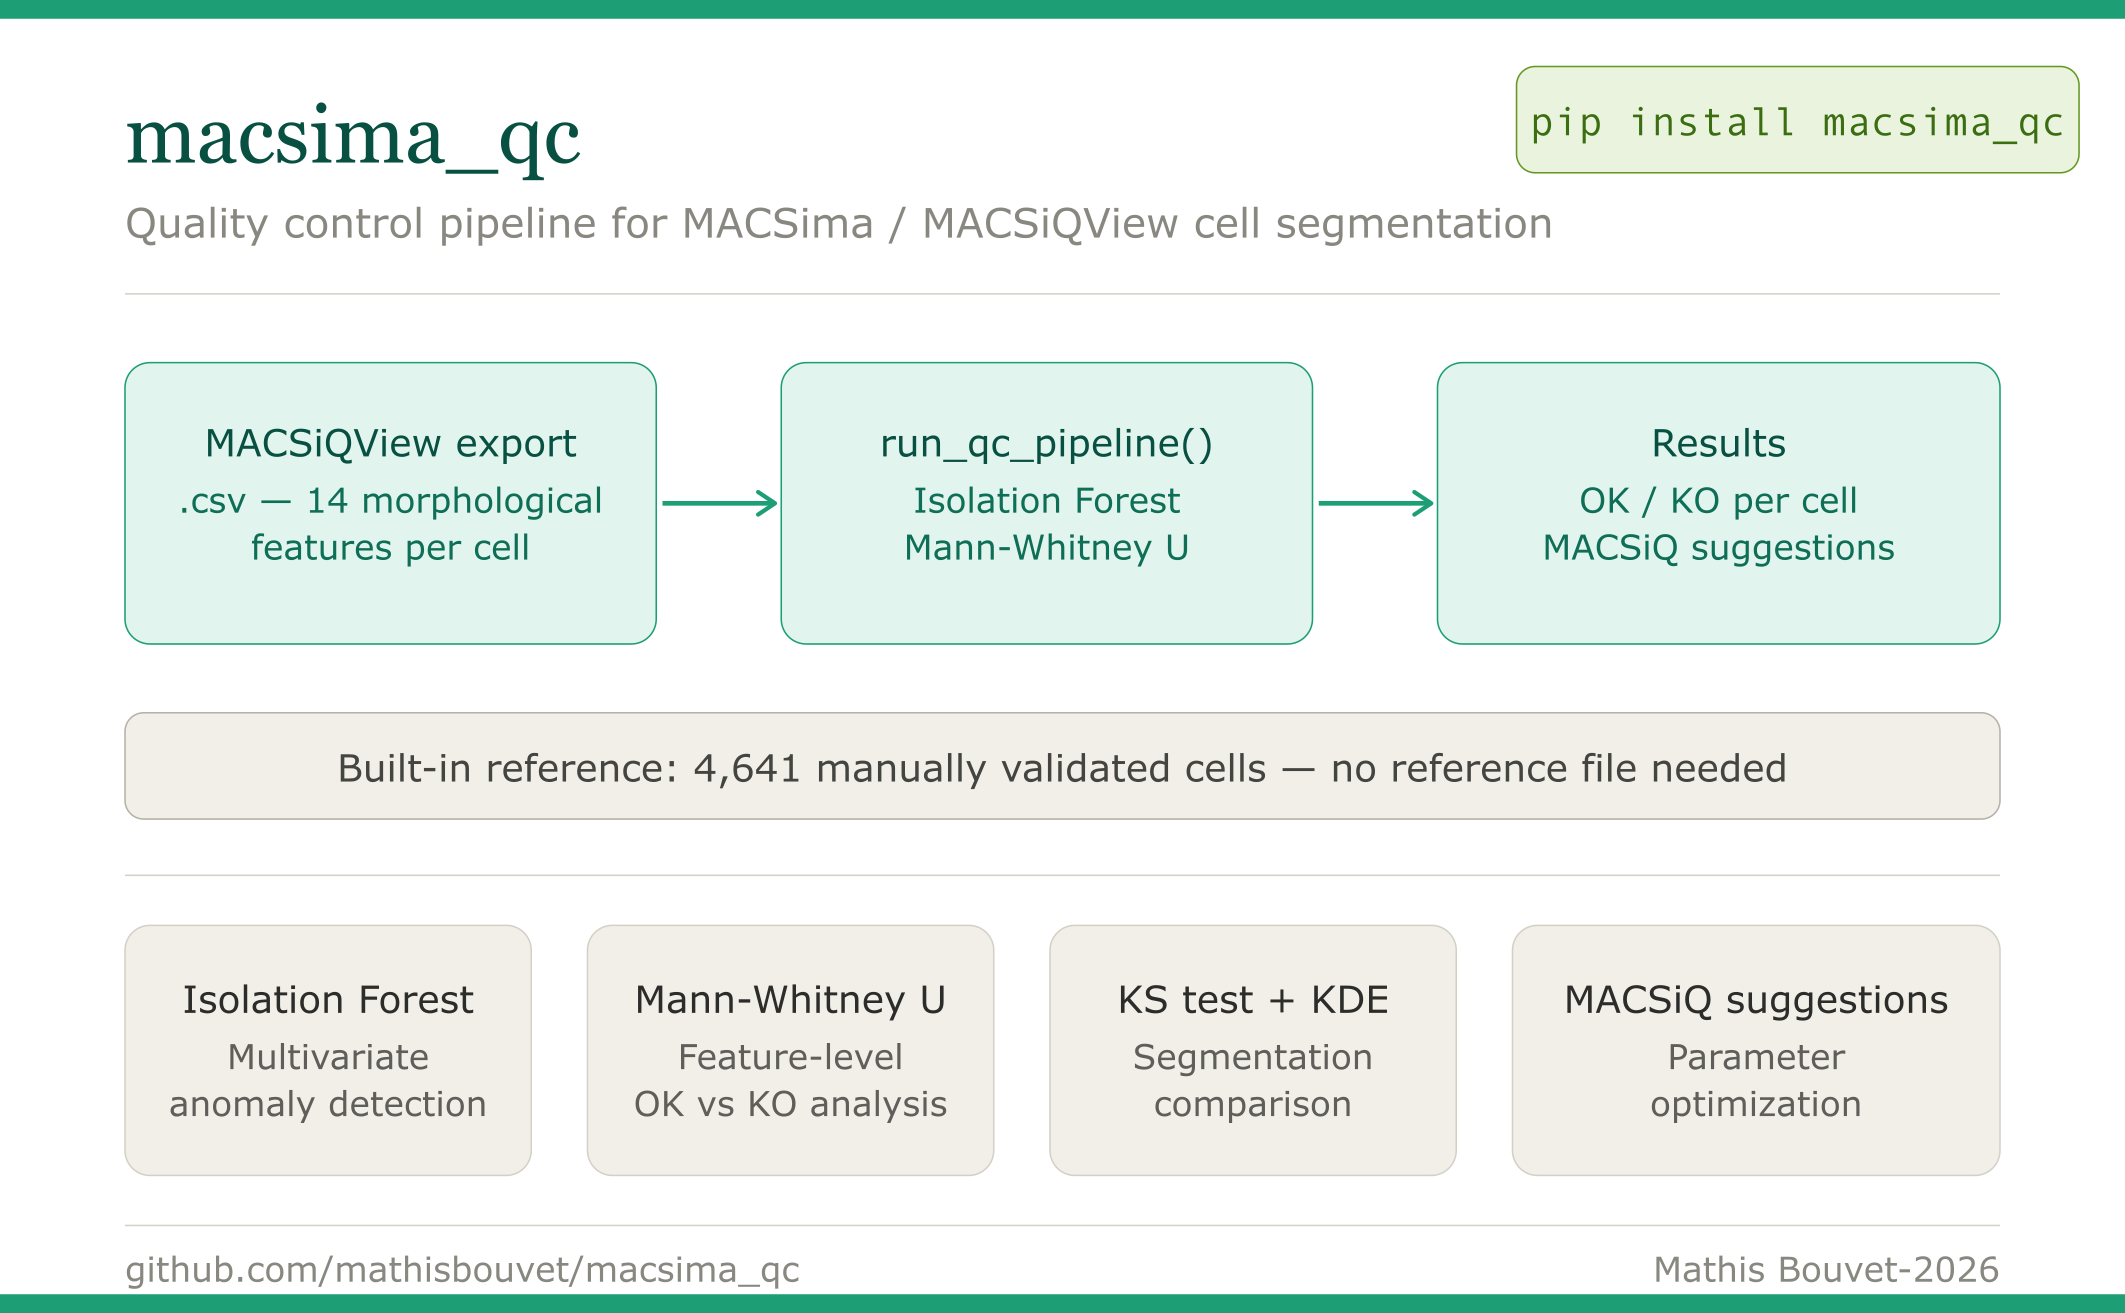
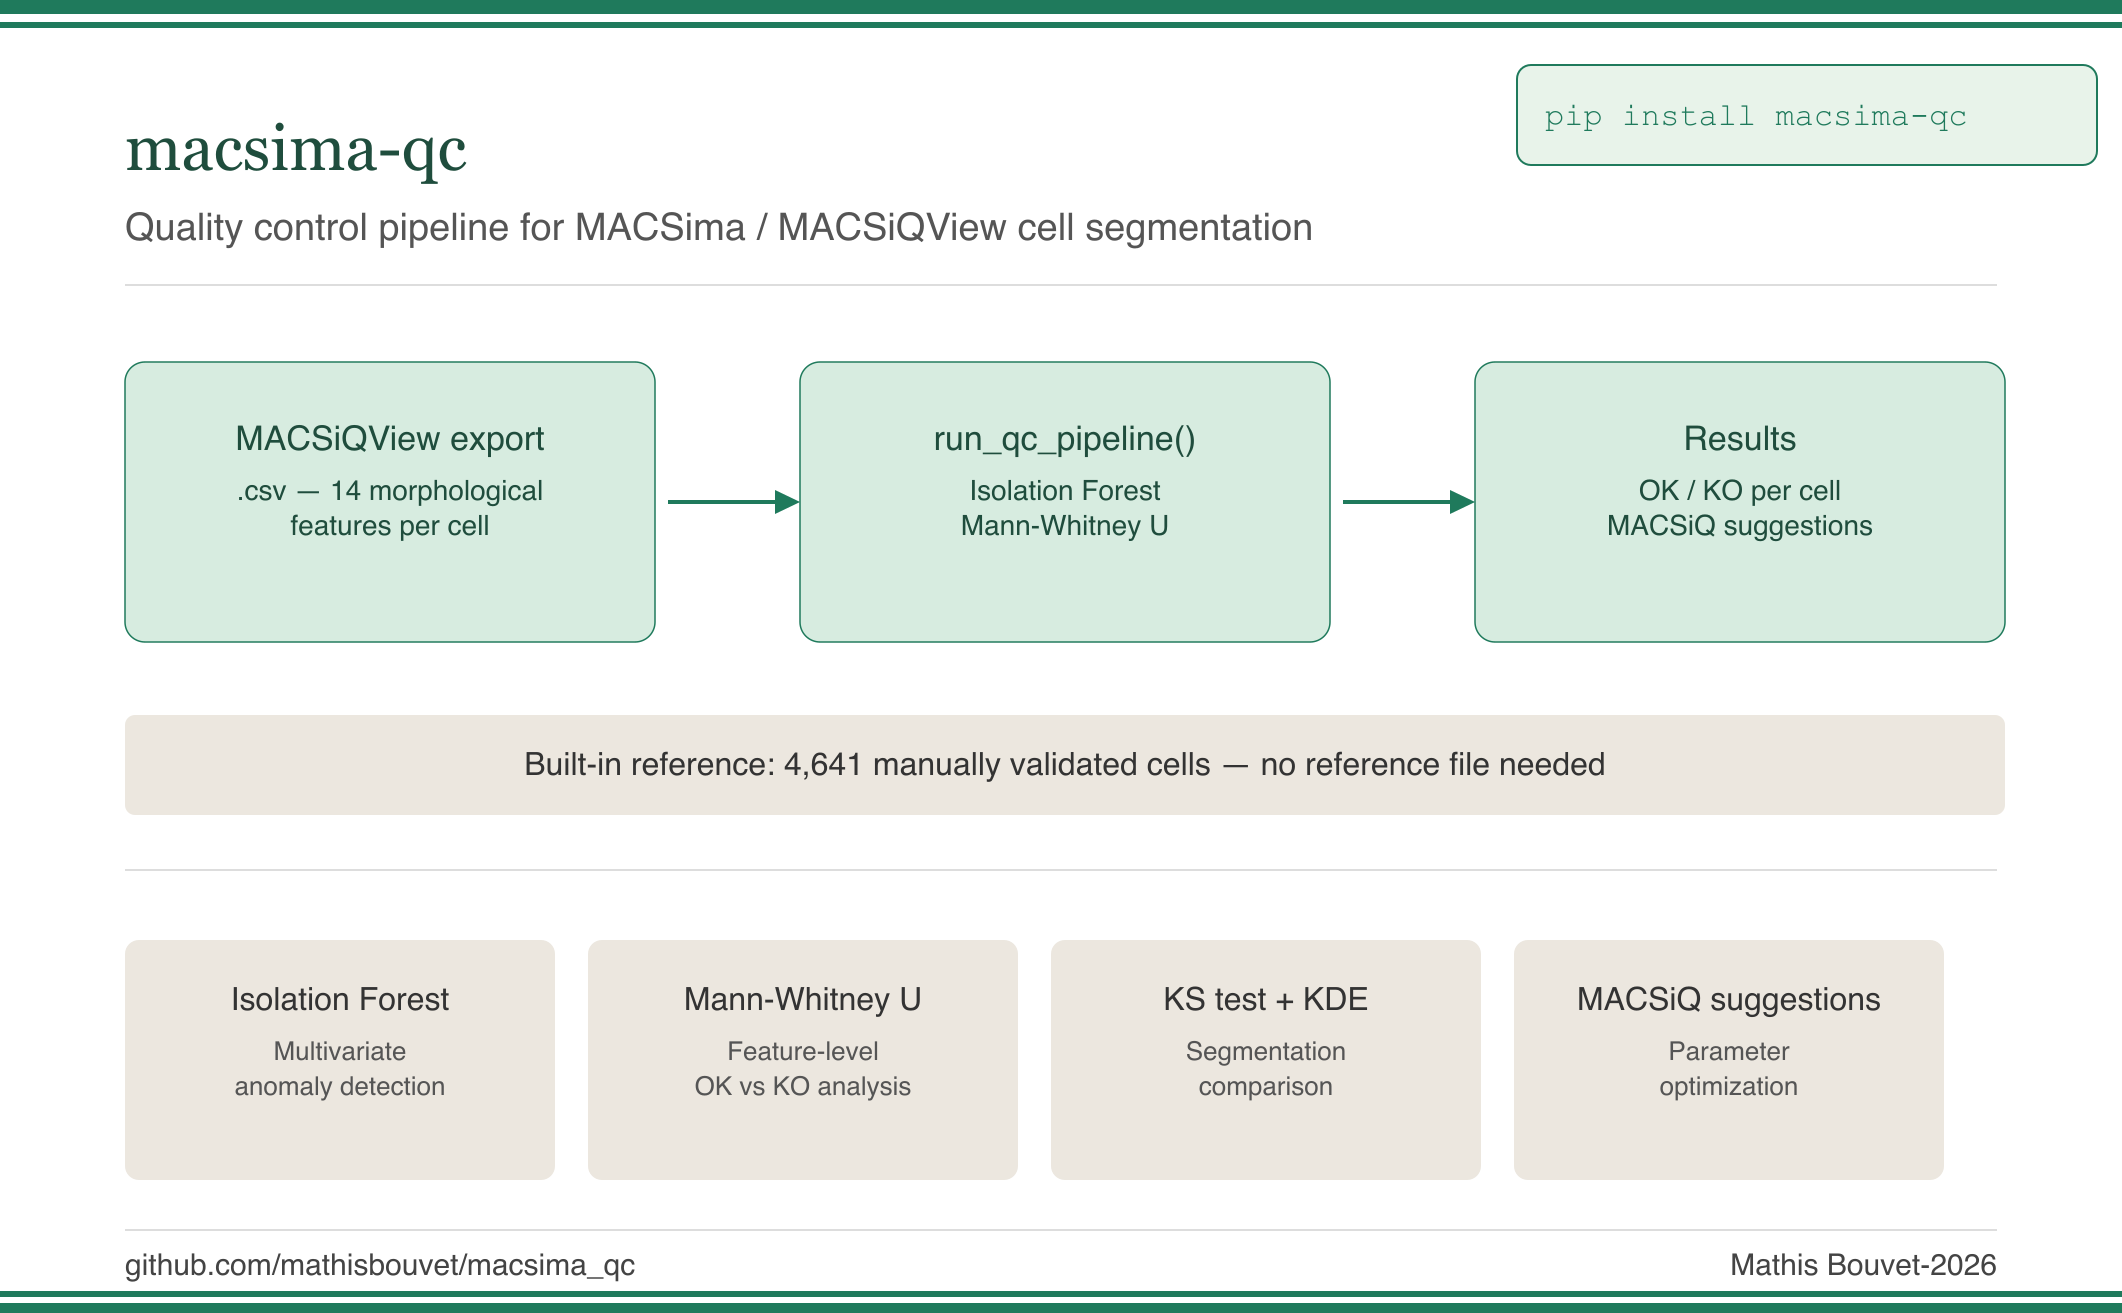
minor modification

diff --git a/README.md b/README.md
@@ -149,7 +149,7 @@ The Mann-Whitney U test then compares OK vs KO distributions for each feature. W
 
 ## 2. Creating a reference segmentation *(optional)*
 
-> For the full step-by-step protocol, see the [Test of Segmentation protocol](https://github.com/mathisbouvet/MACSima_Advanced-Spatial-Omics-Pipeline/blob/main/protocols/Test%20of%20segmentation.md).
+> For the full step-by-step protocol, see the [01_segmentation_qc](https://github.com/mathisbouvet/MACSima_Advanced-Spatial-Omics-Pipeline/blob/main/protocols/Test%20of%20segmentation.md).
 
 A reference DAPI image is extracted from the MACSima system and exported in `.tif` format for processing in Fiji. Regions of interest (ROI) are manually drawn to serve as the basis for segmentation masks.
 